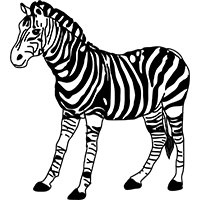
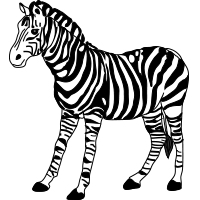
Remade the startup screen background images

Changed region(s): [[0.03, 0.0, 0.96, 1.0], [0.6, 0.9, 0.63, 0.96]]

diff --git a/NeeditFeeditCocos/MenuLayer.m b/NeeditFeeditCocos/MenuLayer.m
@@ -50,13 +50,13 @@
 		CGSize size = [[CCDirector sharedDirector] winSize];
         
         //Create and add background
-        CCSprite* background = [CCSprite spriteWithFile:@"background4.png"];
+        CCSprite* background = [CCSprite spriteWithFile:@"background7.png"];
         background.position = ccp(size.width/2, size.height/2);
         [self addChild:background z:-1];
         
 		// create title label
         CCSprite* title = [CCSprite spriteWithFile:@"title.png"];
-		title.position =  ccp( size.width /2 , size.height/1.5 );
+		title.position =  ccp( size.width /2 , size.height/1.85 );
         
         CCMenuItemImage* start =[CCMenuItemImage itemWithNormalImage:@"start.png" selectedImage:@"startSel.png" target:self selector:@selector(goToLevelPick:)];
         
